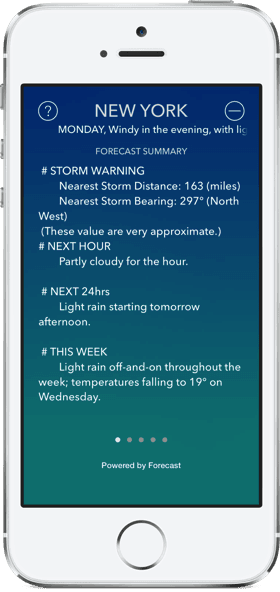
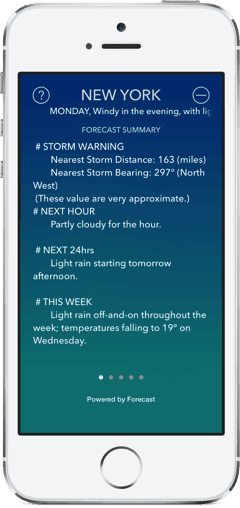
add slides.js

diff --git a/js/plugins.js b/js/plugins.js
@@ -22,7 +22,30 @@
 }());
 
 // Place any jQuery/helper plugins in here.
-/*! Real Shadow v1.2.0 https://github.com/Indamix/real-shadow | https://raw.github.com/Indamix/real-shadow/master/license.txt */
-(function(l,q){function g(c,d){this!==l&&(d=c,c=this);for(var a in d)f[a]=d[a];!h.length&&f.followMouse&&document.body.addEventListener("mousemove",j);l.addEventListener("resize",r);for(a=0;a<c.length;++a){var b=c[a],e=b.getAttribute("rel"),b={dom:b,x:b.offsetLeft+(b.clientWidth>>1),y:b.offsetTop+(b.clientHeight>>1)};e?b.c={r:-1!==e.indexOf("r"),g:-1!==e.indexOf("g"),b:-1!==e.indexOf("b")}:f.c&&(b.c=f.c);b.inset=f.inset?"inset":"";h.push(b)}j();return c}function r(){for(var c=h.length,d,a;c--;)d=
-    h[c],a=d.dom,d.x=a.offsetLeft+(a.clientWidth>>1),d.y=a.offsetTop+(a.clientHeight>>1);j()}function j(c){c===q&&(c={pageX:f.pageX!==q?f.pageX:l.innerWidth>>1,pageY:f.pageY!==q?f.pageY:0});for(var d=h.length,a;d--;){a=h[d];var b=c.pageX-h[d].x,e=c.pageY-h[d].y,m=Math.pow(b*b+e*e,n.pow),m=m/n.div+1;m>n.nMax&&(m=n.nMax);for(var g=Math.atan2(b,e)-s,b=f.length,e=[],k=Math.cos(g),g=Math.sin(g),j=void 0,p=1;p<b;++p)j=Math.pow(p,m),e.push((j*g>>0)+"px "+(j*k>>0)+"px "+(Math.pow(p,1.7)>>0)+"px rgba("+(a.c?(a.c.r?
-    100:0)+","+(a.c.g?100:0)+","+(a.c.b?100:0)+",":"0,0,0,")+".05)"+a.inset);a.dom.style.boxShadow=e.join(",")}}var f={followMouse:!0,length:7},n={nMax:2.3,pow:0.8,div:1500},s=Math.PI,h=[],k=!1;"function"===typeof l.jQuery&&($.fn.realshadow=g,$.fn.realshadow.update=r,k=!0);"undefined"!==typeof define&&define.amd&&(define(function(){return g}),k=!0);"undefined"!==typeof module&&module.exports&&(module.exports=g,k=!0);k||(l.realshadow=g)})(this);
+
+    $(function() {
+
+    if( /Android|webOS|iPhone|iPad|iPod|BlackBerry|IEMobile|Opera Mini/i.test(navigator.userAgent) ) {
+     $('.left').slidesjs({
+        width: 240,
+        height: 508,
+        navigation: false,
+        play: {
+          active: false,
+          auto: false
+        }
+      });
+    }else{
+      $('.left').slidesjs({
+        width: 240,
+        height: 508,
+        navigation: false,
+        play: {
+          active: false,
+          auto: true,
+          interval: 4000,
+          pauseOnHover: true
+        }
+      });
+    }
+    });

diff --git a/index.html b/index.html
@@ -33,15 +33,6 @@
         <link rel="icon" href="favicon.ico" type="image/x-icon">
 
         <script src="js/vendor/modernizr-2.7.1.min.js"></script>
-        <script src="//ajax.googleapis.com/ajax/libs/jquery/1.10.2/jquery.min.js"></script>
-<script type="text/javascript" src="http://malsup.github.io/jquery.cycle.lite.js"></script>
-<script type="text/javascript">
-$(document).ready(function() {
-    $('.left').cycle({
-        fx: 'fade' // choose your transition type, ex: fade, scrollUp, shuffle, etc...
-    });
-});
-</script>
     </head>
     <body>
         <div class="container clearfix">
@@ -76,5 +67,9 @@ $(document).ready(function() {
         </div>
 
 		<script>// put google analytics here!</script>
+        <script src="//ajax.googleapis.com/ajax/libs/jquery/1.10.2/jquery.min.js"></script>
+        <script src="js/vendor/jquery.slides.min.js"></script>
+        <script src="js/plugins.min.js"></script>
+
     </body>
 </html>

diff --git a/js/plugins.min.js b/js/plugins.min.js
@@ -1,0 +1,3 @@
+(function(){var e;var d=function(){};var b=["assert","clear","count","debug","dir","dirxml","error","exception","group","groupCollapsed","groupEnd","info","log","markTimeline","profile","profileEnd","table","time","timeEnd","timeStamp","trace","warn"];
+var c=b.length;var a=(window.console=window.console||{});while(c--){e=b[c];if(!a[e]){a[e]=d;}}}());$(function(){if(/Android|webOS|iPhone|iPad|iPod|BlackBerry|IEMobile|Opera Mini/i.test(navigator.userAgent)){$(".left").slidesjs({width:240,height:508,navigation:false,play:{active:false,auto:false}});
+}else{$(".left").slidesjs({width:240,height:508,navigation:false,play:{active:false,auto:true,interval:4000,pauseOnHover:true}});}});

diff --git a/README.md b/README.md
@@ -9,4 +9,4 @@ Public site for Humid
 
 -- 
 
-Thanks for your visit! :)
+Thanks for your visit! :)	
